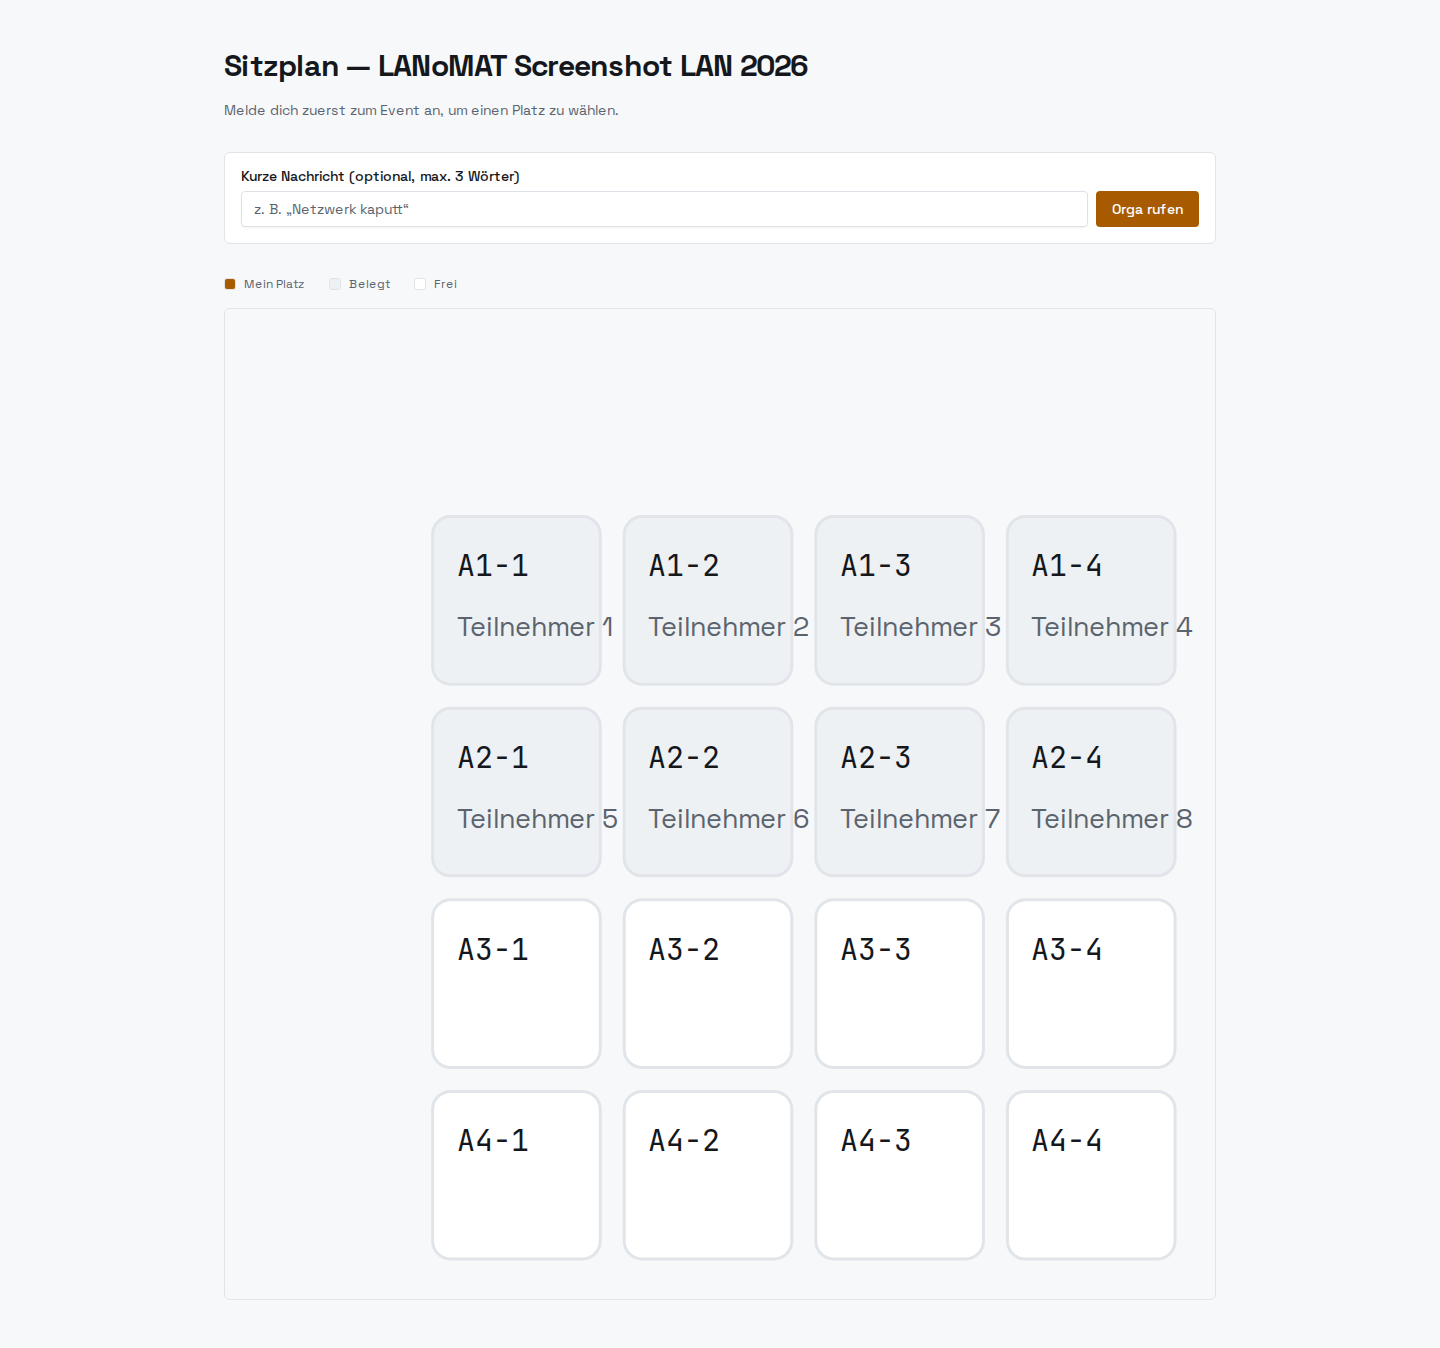
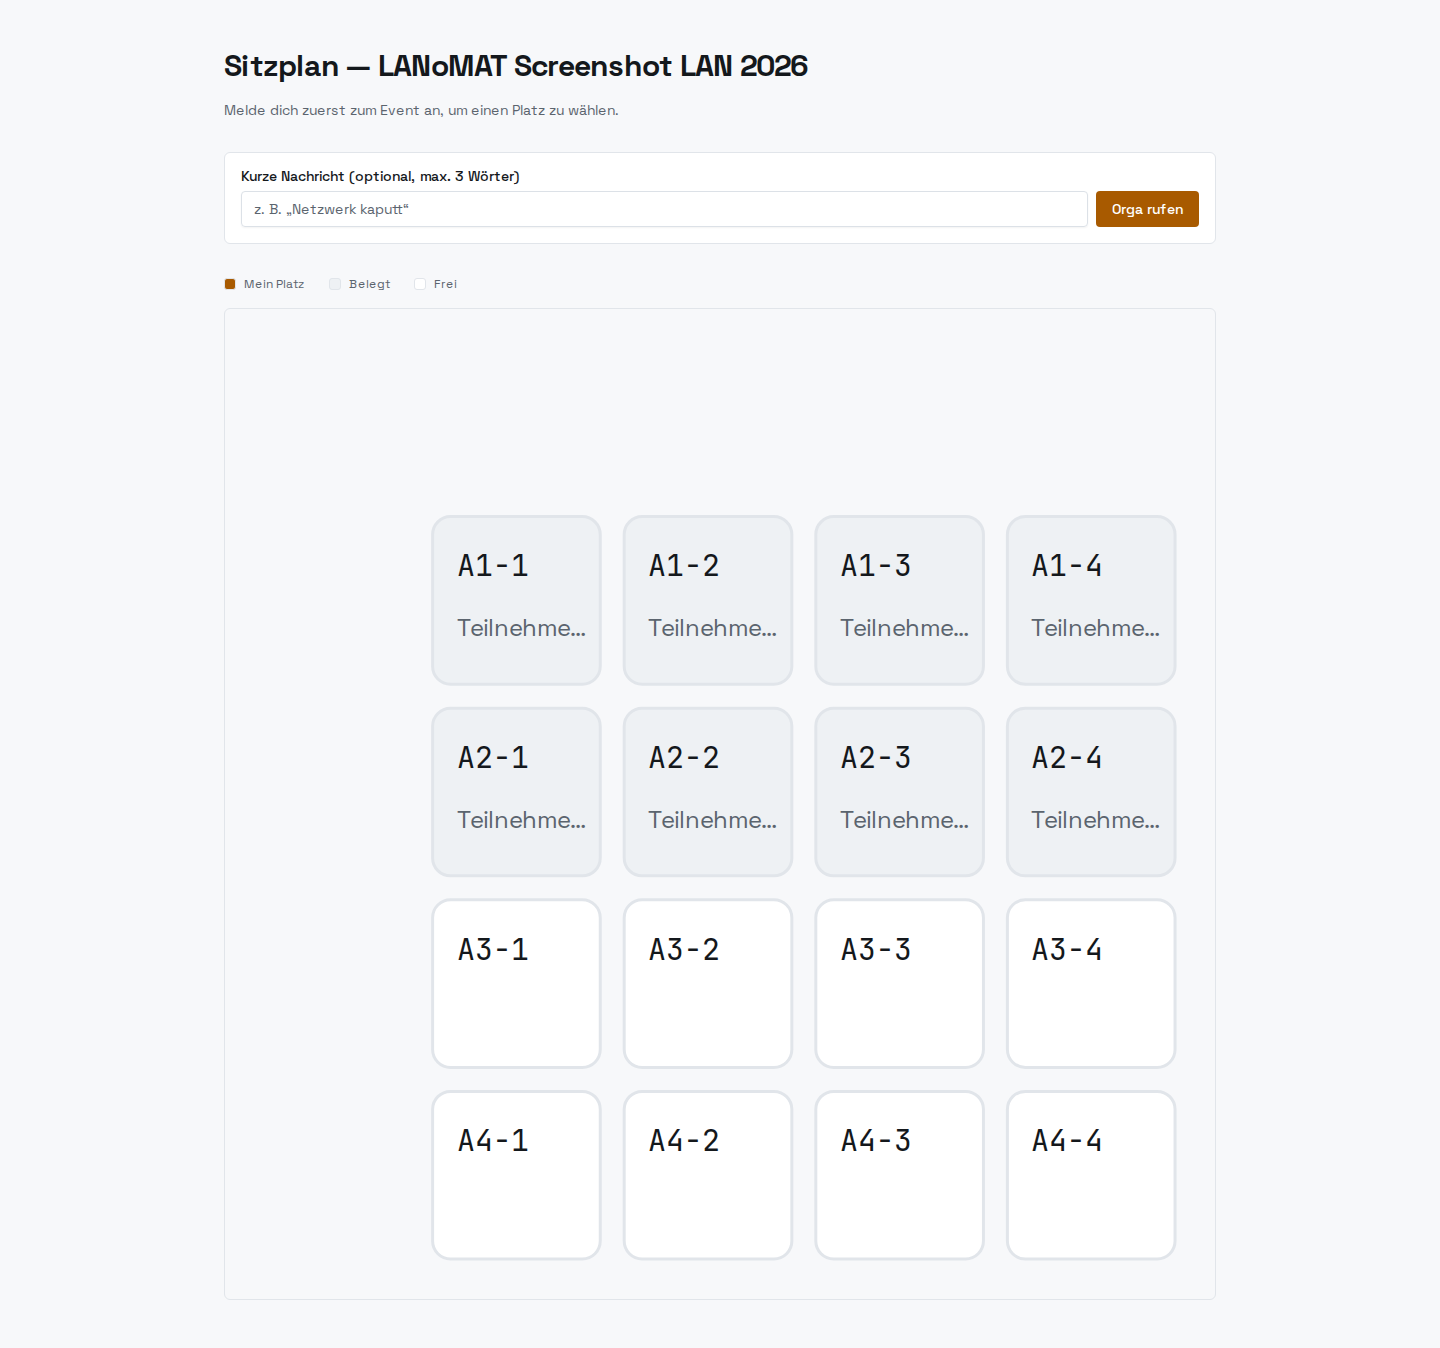
fix(seating): prevent occupant name overflow on the seat grid
The seat grid is an SVG; <text> neither wraps nor clips, so a long
occupant name rendered past its tile and even past the grid border (seen
in the committed seating screenshots). Ellipsis-truncate the name to a
tile-fitting budget at a slightly smaller font, with a #seat-clip clipPath
as the hard backstop that guarantees nothing renders outside the tile. The
full name stays in the <title>/aria-label for accessibility. Regenerated
docs/screenshots/seating-{light,dark}.png against the prod stack.

diff --git a/resources/js/pages/Event/Seating.vue b/resources/js/pages/Event/Seating.vue
@@ -82,6 +82,19 @@ function seatAriaLabel(seat: SeatDto): string {
     return `${seat.label} — ${stateLabel(seat)}`;
 }
 
+// SVG <text> neither wraps nor clips on its own, so a long occupant name
+// spills past the tile. Ellipsis-truncate it for a clean look; the
+// #seat-clip clipPath in the template is the hard backstop that guarantees
+// nothing ever renders outside the tile (the full name stays in the title/
+// aria-label above for accessibility).
+function occupantLabel(seat: SeatDto): string {
+    const name = seat.occupant ?? '';
+
+    // Budgeted to fit the tile at the occupant font size; the #seat-clip
+    // clipPath is the hard backstop for anything still too wide.
+    return name.length > 10 ? `${name.slice(0, 9)}…` : name;
+}
+
 function onSeatKeydown(event: KeyboardEvent, seat: SeatDto) {
     if (event.key !== 'Enter' && event.key !== ' ') {
         return;
@@ -179,6 +192,13 @@ function onSeatKeydown(event: KeyboardEvent, seat: SeatDto) {
             class="mt-4 overflow-auto rounded-lg border border-border p-4"
         >
             <svg :viewBox="`0 0 ${maxX * CELL} ${maxY * CELL}`" class="w-full">
+                <defs>
+                    <!-- Clip seat text to the tile so a long occupant name
+                    can never render outside its seat (see occupantLabel). -->
+                    <clipPath id="seat-clip">
+                        <rect :width="CELL - 8" :height="CELL - 8" rx="6" />
+                    </clipPath>
+                </defs>
                 <g
                     v-for="seat in seats"
                     :key="seat.id"
@@ -215,14 +235,15 @@ function onSeatKeydown(event: KeyboardEvent, seat: SeatDto) {
                         v-if="seat.occupant"
                         x="8"
                         y="40"
-                        class="text-[9px]"
+                        clip-path="url(#seat-clip)"
+                        class="text-[8px]"
                         :fill="
                             seat.id === mySeatId
                                 ? 'var(--primary-foreground)'
                                 : 'var(--muted-foreground)'
                         "
                     >
-                        {{ seat.occupant }}
+                        {{ occupantLabel(seat) }}
                     </text>
                 </g>
             </svg>